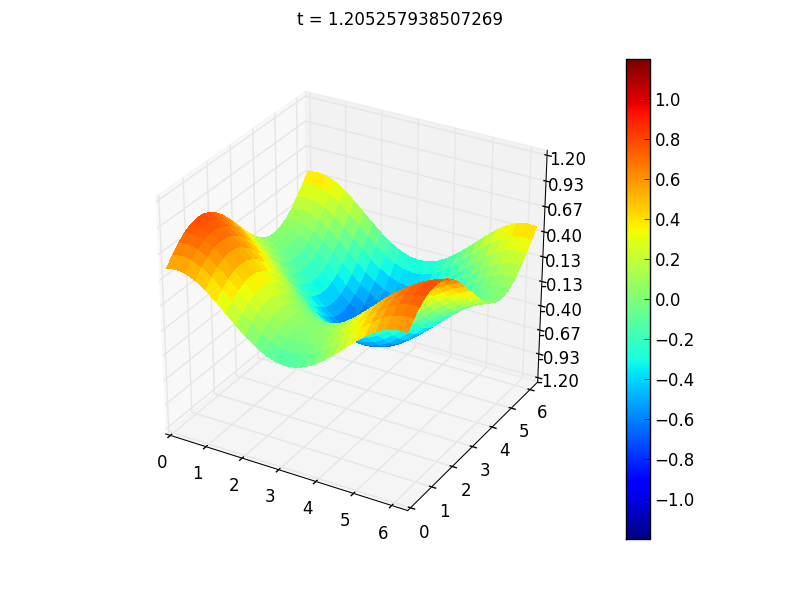
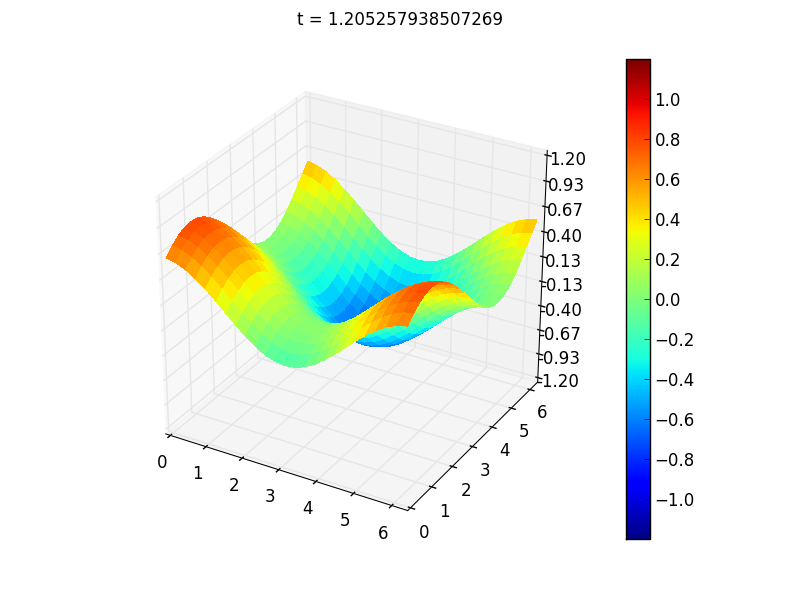
Correction typo in A

diff --git a/2DAdvDiffEqConv.py b/2DAdvDiffEqConv.py
@@ -13,74 +13,46 @@ import errno
 ## Solves the 2D Advection Diffusion Equation :
 ## pd_t u[x,y,t] + pd_x u[x,y,t] + alpha* pd_y u[x,y,t] - 1/Pe(pd_xx u[x,y,t]+pd_yy u[x,y,t])  = 0 (x,y) in [0 2pi]^2
 ## BC periodic
-## IC u[x,y,0]=cos(x)+sin(y) 
+## IC u[x,y,0]=cos(x)+cos(y) 
 ## Convergence test
 
-## Series of N to try
-N = [25, 50, 100]
 
-
-##Physical parameter
-Pe = 4.0
-L=2*pi
-alpha = 0. #velocity ration between x an y direction chose alpha smaller than 1
-## Discretization parameter 
-Nx=25
-Ny=25
-dx=L/float(Nx-1)
-dy=L/float(Ny-1)
-
-## time parameters 
-t=0
-tend = 2*pi
-dt =.25*min(dx,dy)**2/(1./Pe + max(dx,dy))
-#to make sure tend is reached and stability ok
-dt = tend/float(round(tend/dt)+1)
-
-## scheme parameters
-# Laplacian terms
-lx = 1/Pe*dt/dx/dx
-ly=1/Pe*dt/dy/dy
-# Advection terms
-ax = dt/(2.*dx)
-ay = alpha*dt/(2.*dy)
-
-#plot axis
-zmin = -1.2 
-zmax = 1.2
-
-## Figure numbering 
-numb = 0
-
-#dt is such that dt/dx^2 < 0.5 
-s = 'The resolution is ' + repr(dx) + 'in the x direction and ' + repr(dy) + 'in the y direction'   + ', and the time step is ' + repr(dt) 
-print s
+##################################################################################################################
+############################			Useful functions		      ############################
+##################################################################################################################
+#L2 error using Simpson rule 
+def errorL2(f,dx,dy,nx,ny):
+	error = f[0][0]+f[0][ny-1]+f[nx-1][0]+f[nx-1][ny-1]
+	for j in range(1,int((ny-1)/2)+1):
+		error = error+ 4.*(f[0][2*j-1]+f[nx-1][2*j-1])
+	for j in range(1,int((ny-1)/2)):
+		error = error+ 2.*(f[0][2*j]+f[nx-1][2*j])
+	for i in range(1,int((nx-1)/2)+1):
+		error = error+ 4.*(f[2*i-1][0]+f[2*i-1][ny-1])
+	for i in range(1,int((nx-1)/2)):
+		error = error+ 2.*(f[2*i][0]+f[2*i][ny-1])
+	for i in range(1,int((nx-1)/2)+1):
+		for j in range(1,int((ny-1)/2)+1):
+			error = error + 16.*f[2*i-1][2*j-1]
+        for i in range(1,int((nx-1)/2)+1):
+		for j in range(1,int((ny-1)/2)):
+			error = error + 8.*f[2*i-1][2*j]
+        for i in range(1,int((nx-1)/2)):
+		for j in range(1,int((ny-1)/2)+1):
+			error = error + 8.*f[2*i][2*j-1]
+        for i in range(1,int((nx-1)/2)):
+		for j in range(1,int((ny-1)/2)):
+			error = error + 4.*f[2*i][2*j]		
+	return error*1./9.*dx*dy
 
 ## Initial conditions
 def iCond(x,y):
     return .5*cos(x) + .5*cos(y)
 
-uval = iCond(0,0)
-u_arr = [[0 for i in xrange(Ny)] for i in xrange(Nx)]
 
-
-for i in range(0,Nx):
-	for j in range(0,Ny):
-    		uval = iCond(i*dx,j*dy)
-    		u_arr[i][j] = uval
-
-## Construction of the update matrix
-A = [[0 for i in xrange(Ny*Nx)] for i in xrange(Nx*Ny)]
-
-for i in range(0,Nx):
-	for j in range(0,Ny):      
-		A[i*Ny+j][i*Ny+j]=1-2.*(lx+ly)
-		A[i*Ny+j][i*Ny+(j+1)%Ny] = ly+ay
-		A[i*Ny+j][i*Ny+j-1] = ly-ay  
-		A[i*Ny+j][((i+1)%Nx)*Ny+j] = lx-ax
-		A[i*Ny+j][(i-1)*Ny+j] = lx+ax
-
-
+#Exact solution
+def u_exact(x,y,t,alpha):
+	return 0.5*exp(-1/Pe*t)*cos(x-t)+0.5*exp(-1/Pe*t)*cos(y-alpha*t)
 
 ## Create a one row vector from the matrix u_arr
 def matrixToVec(u,nx,ny):
@@ -98,27 +70,85 @@ def vecToMatrix(u,nx,ny):
 		for j in range(0,ny):
 			Umat[i][j]=u[i*ny+j]
     	return Umat
+##################################################################################################################
+############################				End			      ############################
+##################################################################################################################
+#Simulation parameters
+tend = 0.5
+##Physical parameter
+Pe = 4.0
+L=2*pi
+alpha = 0. #velocity ration between x an y direction chose alpha smaller than 1
 
-#convert u_arr to u_vec
-u_vec = matrixToVec(u_arr,Nx,Ny)
-##Time loop
-while t<=tend :
-	t=t+dt
-	#update u_vec
-	u_vec = np.dot(A,u_vec)
-	step=step+1
+error=[]
+## Series of N to try
+N = [25,50,100]
+for k in range(0,3):
+        t=0
+	## Discretization parameter 
+	Nx=N[k]
+	Ny=N[k]
+	dx=L/float(Nx-1)
+	dy=L/float(Ny-1)
 
-#Compate to exact solution
-def u_exact(x,y,t):
-	return 0.5*exp(-1/Pe*t)*cos(x-t)+0.5*exp(-1/Pe*t)*cos(y-alpha*t)
-#L2 error using Simpson rule 
-def errorL2(u_num):
-	error=0
+	## time parameters 
+	dt =.25*min(dx,dy)**2/(1./Pe + max(dx,dy))
+	#to make sure tend is reached and stability ok
+	dt = tend/float(int(tend/dt)+1)
+
+	## scheme parameters
+	# Laplacian terms
+	lx = 1./Pe*dt/dx/dx
+	ly=1./Pe*dt/dy/dy
+
+	# Advection terms
+	ax = dt/(2.*dx)	
+	ay = alpha*dt/(2.*dy)
+
+	## Figure numbering 
+	numb = 0
+	uval = iCond(0,0)
+	u_arr = [[0 for i in xrange(Ny)] for i in xrange(Nx)]
 	for i in range(0,Nx):
 		for j in range(0,Ny):
-			error =  
-	
+    			uval = iCond(i*dx,j*dy)
+    			u_arr[i][j] = uval
 
+	## Construction of the update matrix
+	A = [[0 for i in xrange(Ny*Nx)] for i in xrange(Nx*Ny)]
+	
+	for i in range(0,Nx):
+		for j in range(0,Ny):      
+			A[i*Ny+j][i*Ny+j]=1-2.*(lx+ly)
+			A[i*Ny+j][i*Ny+(j+1)%Ny] = ly+ay
+			A[i*Ny+j][i*Ny+(j-1)%Ny] = ly-ay  
+			A[i*Ny+j][((i+1)%Nx)*Ny+j] = lx-ax
+			A[i*Ny+j][((i-1)%Nx)*Ny+j] = lx+ax
+	#convert u_arr to u_vec
+	u_vec = matrixToVec(u_arr,Nx,Ny)
+	##Time loop
+	while t<tend-1e-6 :
+		t=t+dt
+		print repr(t)
+		#update u_vec
+		u_vec = np.dot(A,u_vec)
+
+	u_arr=vecToMatrix(u_vec,Nx,Ny)
+	##Calculate the error
+	
+	f = [[0 for i in xrange(Ny)] for i in xrange(Nx)]
+	for i in range(0,Nx):
+		for j in range(0,Ny):
+			f[i][j] = u_arr[i][j]-u_exact(i*dx,j*dy,t,alpha)
+			f[i][j]=f[i][j]**2
+
+        err=errorL2(f,dx,dy,Nx,Ny)
+	error.append(err)
+	print 'Calculate the error  for ' + repr(Nx) + ' : ' + repr(err)
+
+plt.loglog(N, error)
+plt.title('Error')
+plt.savefig('Error.png')
 
 print 'Simulation Completed without error'
 

diff --git a/2DAdvDiffEq.py b/2DAdvDiffEq.py
@@ -83,7 +83,8 @@ def plotFig(u_arr,numb,t):
 	surf = ax.plot_surface(X, Y, u_arr,v, rstride=1, cstride=1,cmap=cm.jet,
  	       linewidth=0, antialiased=False, vmin=zmin, vmax=zmax)
 	ax.set_zlim(zmin, zmax)
-	
+	ax.set_xlim(0, L)
+	ax.set_ylim(0, L)
 	ax.zaxis.set_major_locator(LinearLocator(10))
 	ax.zaxis.set_major_formatter(FormatStrFormatter('%.02f'))
 	
@@ -98,9 +99,9 @@ for i in range(0,Nx):
 	for j in range(0,Ny):      
 		A[i*Ny+j][i*Ny+j]=1-2.*(lx+ly)
 		A[i*Ny+j][i*Ny+(j+1)%Ny] = ly+ay
-		A[i*Ny+j][i*Ny+j-1] = ly-ay  
+		A[i*Ny+j][i*Ny+(j-1)%Ny] = ly-ay  
 		A[i*Ny+j][((i+1)%Nx)*Ny+j] = lx-ax
-		A[i*Ny+j][(i-1)*Ny+j] = lx+ax
+		A[i*Ny+j][((i-1)%Nx)*Ny+j] = lx+ax
 
 print 'The matrix is generated'
 
